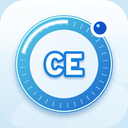
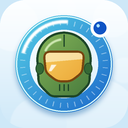
Wii U app art: a green helmet with a gold visor in front of the ring (drawn from shapes in tools/wiiu_app_art.py), the CE letters taken out

Changed region(s): [[0.25, 0.2188, 0.75, 0.7812]]

diff --git a/tools/wiiu_app_art.py b/tools/wiiu_app_art.py
@@ -8,10 +8,11 @@
 - splash-tv.png, 1280x720, shown on the TV while the app starts (--tv-image);
 - splash-drc.png, 854x480, shown on the GamePad meanwhile (--drc-image).
 
-The look is the Wii U's own shell: a clean white and pale-blue picture with soft round shapes, a glossy blue-and-teal ring (a ring world, drawn here from
-circles and gradients: it is not the game's logo or any picture of the game, which belong to Microsoft) with "CE" (Combat Evolved) in it, a bold title with a
-thick rounded outline, and a pill for the subtitle. The title is set in Overpass (port/assets/fonts, SIL Open Font License 1.1); the outline is drawn by
-Pillow's stroke, which has round joins. The splash screens say that the port is unofficial and needs the player's own copy.
+The look is the Wii U's own shell: a clean white and pale-blue picture with soft round shapes, a glossy blue ring (a ring world) with a green armoured helmet with a
+gold visor in front of it, a bold title with a thick rounded outline, and a pill for the subtitle. Everything is drawn here from shapes and gradients, as a simple
+cartoon of a soldier's helmet; none of the game's artwork, logo or models was used, and the helmet and the ring are not copies of any picture of the game (the game and
+its characters belong to Microsoft). The title is set in Overpass (port/assets/fonts, SIL Open Font License 1.1); the outline is drawn by Pillow's stroke, which has
+round joins. The splash screens say that the port is unofficial and needs the player's own copy.
 Needs Pillow only (no NumPy); every shape is drawn by Pillow's own rasteriser at four times the size and scaled down with LANCZOS, so another Pillow
 version may differ by a level or two at an edge (--check allows a mean difference of half a level).
 """
@@ -42,6 +43,12 @@ OUTLINE = (24, 128, 220)
 WHITE = (255, 255, 255)
 MUTED = (84, 118, 150)
 PILL = (230, 244, 252)
+ARMOR_LIGHT = (150, 196, 96)
+ARMOR_DARK = (52, 104, 52)
+ARMOR_EDGE = (30, 70, 40)
+VISOR_LIGHT = (255, 226, 120)
+VISOR_DARK = (226, 142, 28)
+VISOR_EDGE = (120, 70, 16)
 SCALE = 4
 
 
@@ -142,9 +149,75 @@ def ring(image, centre, radius, letters=True):
     draw.ellipse([mx - mr, my - mr, mx + mr, my + mr], fill=RING_DARK)
     draw.ellipse([mx - mr * 0.55, my - mr * 0.6, mx - mr * 0.05, my - mr * 0.1], fill=(170, 226, 250))
     if letters:
-        font = ImageFont.truetype(str(BLACK_FONT), round(radius * 0.62))
-        outlined_text(image, (cx, cy + radius * 0.22), "CE", font, WHITE, OUTLINE, max(2, round(radius * 0.05)),
-                      shadow=(0, radius * 0.03, radius * 0.02, 0.35), spacing=radius * 0.01, align="centre")
+        helmet(image, (cx, cy + radius * 0.03), radius * 1.30)
+
+
+def rounded(mask, radius):
+    """a mask with its corners rounded (blurred and cut again)"""
+    return blurred(mask, radius).point(lambda v: 255 if v > 127 else 0)
+
+
+def sticker(image, mask, fill, edge, width):
+    """the shape of mask, filled with the picture fill, with an outline of width pixels in the colour edge (the dilated mask under it)"""
+    grown = blurred(mask, width * 0.7).point(lambda v: 255 if v > 20 else 0)
+    image.paste(Image.new("RGB", image.size, edge), (0, 0), grown)
+    image.paste(fill, (0, 0), mask)
+
+
+def draw_helmet(image, centre, size):
+    """a green armoured helmet with a gold mirror visor, in the picture's round cartoon style: drawn from a few shapes, in front view (an original drawing of
+    a soldier's helmet; the game's artwork was not used)"""
+    cx, cy = centre
+    s = size
+    full = image.size
+    edge = max(3, round(s * 0.035))
+    # (the shell: a dome and a jaw, joined and rounded)
+    shell = Image.new("L", full, 0)
+    d = ImageDraw.Draw(shell)
+    d.ellipse([cx - 0.40 * s, cy - 0.50 * s, cx + 0.40 * s, cy + 0.30 * s], fill=255)
+    d.polygon([(cx - 0.40 * s, cy - 0.10 * s), (cx - 0.38 * s, cy + 0.28 * s), (cx - 0.20 * s, cy + 0.47 * s), (cx + 0.20 * s, cy + 0.47 * s),
+               (cx + 0.38 * s, cy + 0.28 * s), (cx + 0.40 * s, cy - 0.10 * s)], fill=255)
+    shell = rounded(shell, s * 0.03)
+    # (a shadow under it)
+    under = blurred(shell.transform(full, Image.AFFINE, (1, 0, 0, 0, 1, -s * 0.04)), s * 0.03).point(lambda v: v * 0.35)
+    image.paste(Image.new("RGB", full, (70, 120, 160)), (0, 0), under)
+    sticker(image, shell, diagonal(full, ARMOR_LIGHT, ARMOR_DARK), ARMOR_EDGE, edge)
+    draw = ImageDraw.Draw(image)
+    # (the ear pieces and the crest line)
+    for side in (-1, 1):
+        x = cx + side * 0.385 * s
+        draw.ellipse([x - 0.065 * s, cy - 0.04 * s, x + 0.065 * s, cy + 0.14 * s], fill=ARMOR_DARK, outline=ARMOR_EDGE, width=max(2, round(s * 0.012)))
+    draw.line([(cx, cy - 0.49 * s), (cx, cy - 0.30 * s)], fill=ARMOR_EDGE, width=max(3, round(s * 0.02)))
+    # (the visor: a rounded shield shape, gold)
+    visor = Image.new("L", full, 0)
+    ImageDraw.Draw(visor).polygon([(cx - 0.30 * s, cy - 0.20 * s), (cx + 0.30 * s, cy - 0.20 * s), (cx + 0.27 * s, cy + 0.10 * s), (cx + 0.10 * s, cy + 0.23 * s),
+                                   (cx - 0.10 * s, cy + 0.23 * s), (cx - 0.27 * s, cy + 0.10 * s)], fill=255)
+    visor = rounded(visor, s * 0.035)
+    sticker(image, visor, diagonal(full, VISOR_LIGHT, VISOR_DARK), VISOR_EDGE, edge)
+    # (the reflections on the visor: a sky band and a bright streak, cut to the visor's shape)
+    glass = Image.new("L", full, 0)
+    gd = ImageDraw.Draw(glass)
+    gd.polygon([(cx - 0.30 * s, cy - 0.20 * s), (cx + 0.30 * s, cy - 0.20 * s), (cx + 0.29 * s, cy - 0.10 * s), (cx - 0.29 * s, cy - 0.05 * s)], fill=150)
+    sky = ImageChops.multiply(glass, visor)
+    image.paste(Image.new("RGB", full, (255, 250, 220)), (0, 0), sky)
+    streak = Image.new("L", full, 0)
+    ImageDraw.Draw(streak).polygon([(cx - 0.20 * s, cy - 0.01 * s), (cx - 0.12 * s, cy - 0.01 * s), (cx - 0.20 * s, cy + 0.09 * s), (cx - 0.24 * s, cy + 0.09 * s)], fill=210)
+    image.paste(Image.new("RGB", full, WHITE), (0, 0), ImageChops.multiply(blurred(streak, s * 0.004), visor))
+    # (the dome's highlight, the chin vents)
+    shine = Image.new("L", full, 0)
+    ImageDraw.Draw(shine).arc([cx - 0.33 * s, cy - 0.43 * s, cx + 0.33 * s, cy + 0.17 * s], 200, 262, fill=200, width=max(3, round(s * 0.035)))
+    image.paste(Image.new("RGB", full, (230, 250, 205)), (0, 0), blurred(shine, s * 0.006))
+    for k in (-1, 0, 1):
+        draw.line([(cx + k * 0.07 * s, cy + 0.30 * s), (cx + k * 0.07 * s, cy + 0.40 * s)], fill=ARMOR_EDGE, width=max(2, round(s * 0.018)))
+
+
+def helmet(image, centre, size):
+    """draw_helmet on a crop of the picture that holds it (the filters work on that, not on the whole picture), put back"""
+    half = round(size * 0.75)
+    box = (round(centre[0]) - half, round(centre[1]) - half, round(centre[0]) + half, round(centre[1]) + half)
+    region = image.crop(box)
+    draw_helmet(region, (half, half), size)
+    image.paste(region, box[:2])
 
 
 def sparkle(image, centre, radius, alpha=230):
